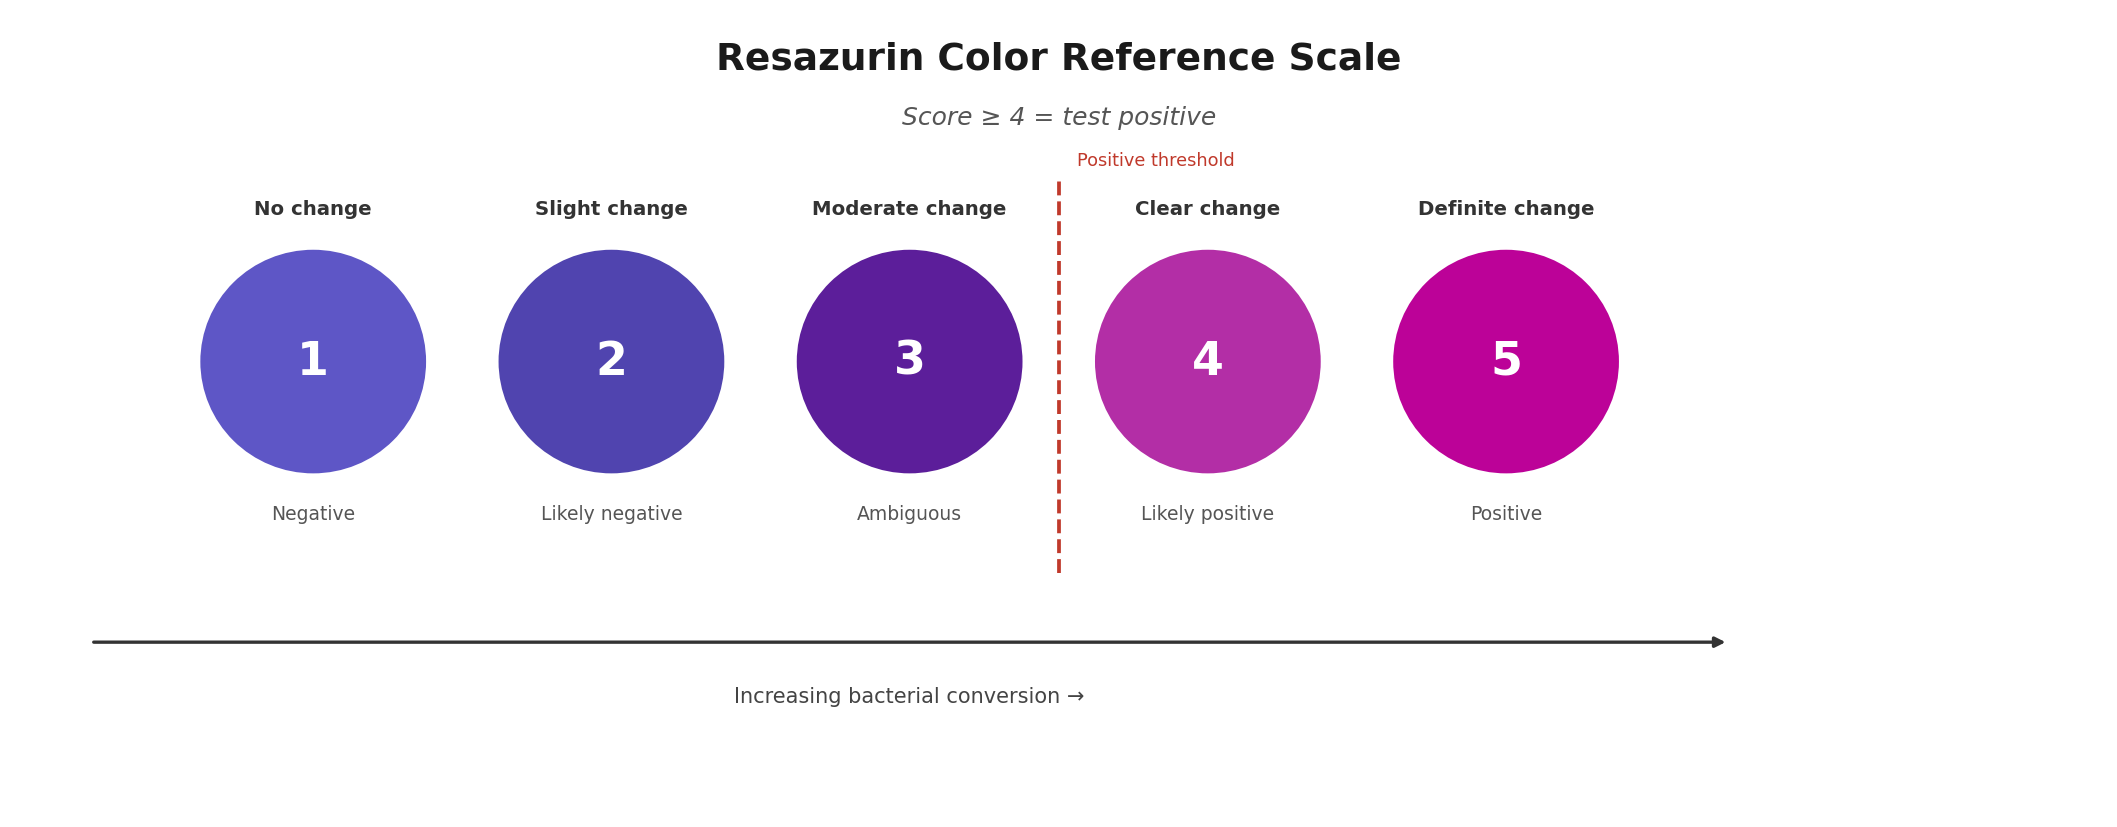
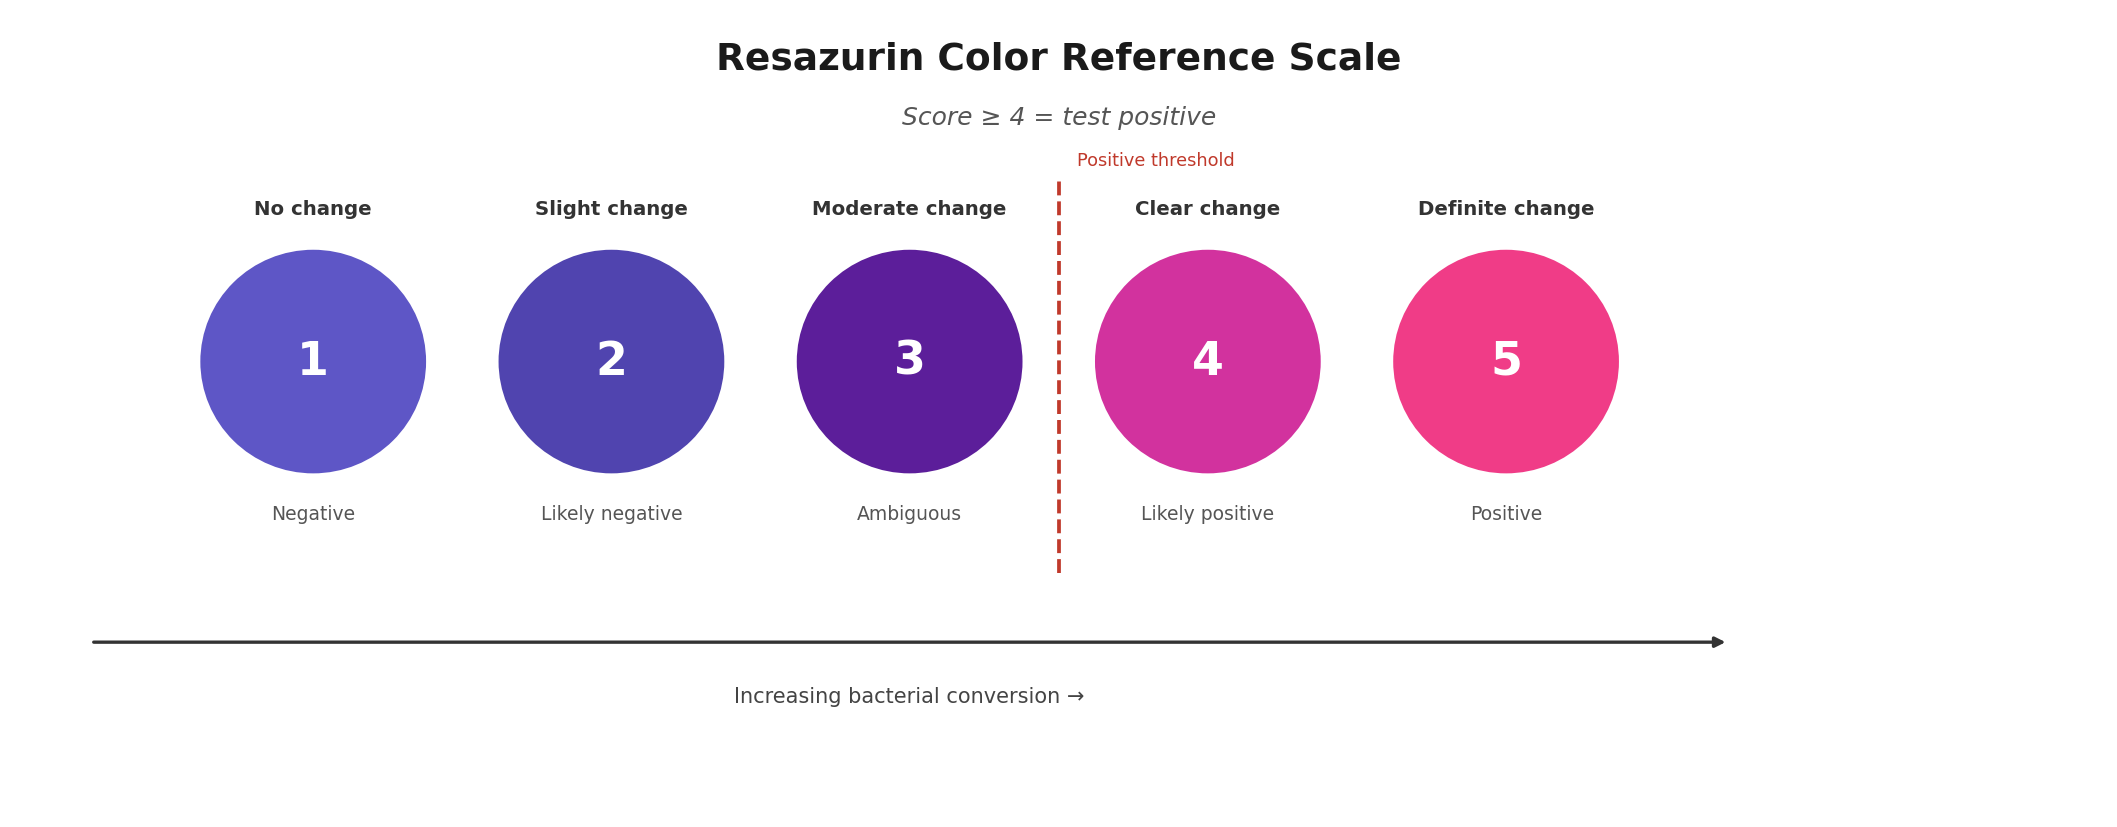
Update Likert Level 4/5 colors to brighter resorufin pink
Level 5 (Definite change): RGB(188,2,152) → RGB(240,60,135) — bright hot pink
Level 4 (Clear change):    RGB(179,46,166) → RGB(210,50,158) — warmer purple-pink

Colors now match fully-converted resorufin from reference paper imagery.
Regenerated likert_scale.png with updated gradient.

Changed region(s): [[0.6547, 0.3023, 0.7794, 0.5744], [0.4988, 0.3023, 0.6235, 0.5744]]

diff --git a/config.py b/config.py
@@ -250,8 +250,8 @@ LIKERT_REFERENCE_COLORS = [
     ( 94,  86, 198),   # Level 1 — No change        (Negative)
     ( 80,  68, 175),   # Level 2 — Slight change    (Likely negative)
     ( 92,  30, 154),   # Level 3 — Moderate change  (Ambiguous)
-    (179,  46, 166),   # Level 4 — Clear change     (Likely positive)
-    (188,   2, 152),   # Level 5 — Definite change  (Positive)
+    (210,  50, 158),   # Level 4 — Clear change     (Likely positive)
+    (240,  60, 135),   # Level 5 — Definite change  (Positive) — bright hot pink (ref: resorufin fully converted)
 ]
 
 # Minimum Likert level to count as a "positive event" at a timepoint.
